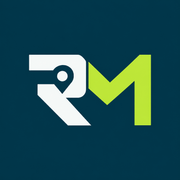
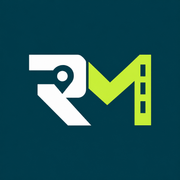
fix: commercial priorities and complete Natal districts with refreshed RM brand [skip ci]

Changed region(s): [[0.7778, 0.3056, 0.8611, 0.6944]]

diff --git a/index.html b/index.html
@@ -1,7 +1,7 @@
 <!doctype html><html lang="pt-BR"><head><meta charset="utf-8"><meta name="viewport" content="width=device-width,initial-scale=1,viewport-fit=cover"><meta name="theme-color" content="#052b36"><title>RotaMapa | Sua rota com inteligência.</title>
 <!-- iphone-pwa:start -->
 <link rel="manifest" href="/iphone.webmanifest">
-<link rel="apple-touch-icon" sizes="180x180" href="/assets/rotamapa/icon-180.png">
+<link rel="apple-touch-icon" sizes="180x180" href="/assets/rotamapa/icon-180.png?v=1.3.1">
 <meta name="apple-mobile-web-app-capable" content="yes">
 <meta name="apple-mobile-web-app-title" content="RotaMapa">
 <meta name="apple-mobile-web-app-status-bar-style" content="black-translucent">
@@ -12,7 +12,7 @@
 <script>
 if(new URLSearchParams(location.search).has('code'))document.documentElement.classList.add('traxio-oauth-pending');
 </script>
-<link rel="stylesheet" href="assets/traxio.css"><link rel="stylesheet" href="assets/approved-layout.css"><link rel="stylesheet" href="assets/kit-layout.css"><link rel="icon" type="image/png" href="assets/rotamapa/icon-32.png">
+<link rel="stylesheet" href="assets/traxio.css"><link rel="stylesheet" href="assets/approved-layout.css"><link rel="stylesheet" href="assets/kit-layout.css"><link rel="icon" type="image/png" href="assets/rotamapa/icon-32.png?v=1.3.1">
 <link rel="stylesheet" href="assets/traxio-routes.css"><link rel="stylesheet" href="assets/traxelo-shell.css"><link rel="stylesheet" href="assets/traxelo-glass.css">
[1 lines of base64/hex data omitted]
 <div id="authExtra" hidden>

diff --git a/assets/traxio-ui.js b/assets/traxio-ui.js
@@ -24,7 +24,7 @@ document.addEventListener('DOMContentLoaded', () => {
     };
     return `<svg class="${className}" viewBox="0 0 24 24" aria-hidden="true">${paths[name] || paths.pin}</svg>`;
   };
-  const brand = className => `<span class="brand-crop traxelo-approved-brand rotamapa-approved-brand ${className || ''}" role="img" aria-label="RotaMapa — Sua rota com inteligência."><img class="rotamapa-brand-image" src="assets/rotamapa/logo.webp" alt="" width="1540" height="306"></span>`;
+  const brand = className => `<span class="brand-crop traxelo-approved-brand rotamapa-approved-brand ${className || ''}" role="img" aria-label="RotaMapa — Sua rota com inteligência."><img class="rotamapa-brand-image" src="assets/rotamapa/logo.webp?v=1.3.1" alt="" width="1540" height="306"></span>`;
   // Display unmodified original pixels from the supplied reference crops.
   const glyph=(source,sourceWidth,sourceHeight,x,y,w,h,className='')=>`<span class="kit-glyph ${className}" aria-hidden="true" style="aspect-ratio:${w}/${h}"><img src="assets/visual-kit/assets/${source}" alt="" width="${sourceWidth}" height="${sourceHeight}" style="width:${100*sourceWidth/w}%;height:${100*sourceHeight/h}%;left:${-100*x/w}%;top:${-100*y/h}%"></span>`;
   // Key only the crop background, then intersect with source alpha. The final
@@ -159,17 +159,21 @@ document.addEventListener('DOMContentLoaded', () => {
   registry.innerHTML = `<div class="registry-controls"><div class="registry-search-row"><div class="search-field">${icon('search')}<input id="registrySearch" type="search" placeholder="Buscar por nome, CNPJ, cidade ou endereço..." aria-label="Buscar clientes"></div><button type="button" id="registryFilterToggle" class="secondary icon-button" aria-label="Mostrar ou ocultar filtros" aria-expanded="true" aria-controls="registryFilters">${icon('filter')}</button></div><div class="registry-filters" id="registryFilters"><select id="registryCity" aria-label="Filtrar por cidade"><option value="">Todas as cidades</option></select><select id="registryNeighborhood" aria-label="Filtrar por bairro"><option value="">Todos os bairros</option></select><select id="registryCategory" aria-label="Filtrar por categoria"><option value="">Todas as categorias</option></select><button type="button" id="registryClear" class="secondary">Limpar filtros</button></div><div class="registry-location-tools"><label for="registryLocation">Localização</label><select id="registryLocation"><option value="">Todos os clientes</option><option value="confirmed">Localização confirmada</option><option value="review">Aguardando confirmação</option><option value="saved">Pontos salvos para revisar</option><option value="missing">Sem ponto salvo</option></select><div id="confirmedPortfolioActions" hidden><button type="button" id="registryPlanConfirmed">Criar rota com estes confirmados</button><button type="button" id="registrySuggestConfirmed" class="secondary">Sugerir rota com estes confirmados</button></div></div><p class="registry-count" id="registryCount" aria-live="polite"></p></div><div class="table-scroll"><table class="client-table"><thead><tr><th><input id="registrySelectAll" type="checkbox" aria-label="Selecionar todos os clientes filtrados"></th><th scope="col">Cliente</th><th scope="col">Cidade</th><th scope="col">Bairro</th><th scope="col">Categoria</th><th scope="col">Prioridade</th></tr></thead><tbody id="registryRows"></tbody></table></div><div class="registry-footer"><span id="registrySelection" aria-live="polite"></span><button type="button" id="registryPlan" class="secondary">Planejar visitas selecionadas →</button></div>`;
   clientSection.append(registry);
   const category = c => regionField(c,['categoria','segmento','ramo','atividade']) || c.category || '—';
+  // Commercial priority is independent of optional business categories in the spreadsheet.
+  const commercialPriority = c => String(Number(c.priority) === 3 ? 3 : Number(c.priority) === 1 ? 1 : 2);
   const filteredClients = () => {
     const q = norm(el('registrySearch').value), city = el('registryCity').value, district = el('registryNeighborhood').value, cat = el('registryCategory').value;
     return clients.filter(c => {
       const r = regionParts(c), location = el('registryLocation').value, ready = TraxioPlanner.location(c).ready;
-      return (!location || (location === 'confirmed' ? ready : location === 'saved' ? !ready && TraxioPlanner.hasSavedPoint(c) : location === 'missing' ? !TraxioPlanner.hasSavedPoint(c) : !ready)) && RotaMapaClientIdentity.matches(c,q,r.city,r.district,category(c)) && (!city || r.city === city) && (!district || r.district === district) && (!cat || category(c) === cat);
+      return (!location || (location === 'confirmed' ? ready : location === 'saved' ? !ready && TraxioPlanner.hasSavedPoint(c) : location === 'missing' ? !TraxioPlanner.hasSavedPoint(c) : !ready)) && RotaMapaClientIdentity.matches(c,q,r.city,r.district,category(c)) && (!city || norm(r.city) === norm(city)) && (!district || norm(r.district) === norm(district)) && (!cat || commercialPriority(c) === cat);
     });
   };
   function updateOptions(id, values, initial) {
     const select = el(id), value = select.value; select.replaceChildren(new Option(initial,''));
-    [...new Set(values.filter(x => x && x !== '—'))].sort((a,b) => a.localeCompare(b,'pt-BR')).forEach(v => select.add(new Option(v,v)));
-    if([...select.options].some(o => o.value === value)) select.value = value;
+    const unique = new Map();
+    for(const v of values) if(v && v !== '—' && !unique.has(norm(v))) unique.set(norm(v),v);
+    [...unique.values()].sort((a,b) => a.localeCompare(b,'pt-BR')).forEach(v => select.add(new Option(v,v)));
+    select.value = [...select.options].find(o => norm(o.value) === norm(value))?.value || '';
   }
   function registrySelection() {
     const filtered = filteredClients(), count = filtered.filter(c => selectedIds.has(c.id)).length;
@@ -182,8 +186,16 @@ document.addEventListener('DOMContentLoaded', () => {
     el('registryPlan').disabled = reviewMode?!reviewCount:!selectedIds.size;
   }
   function renderRegistry(refreshOptions = false) {
-    if(refreshOptions) { updateOptions('registryCity',clients.map(c=>regionParts(c).city),'Cidade'); updateOptions('registryCategory',clients.map(category),'Categoria'); }
-    updateOptions('registryNeighborhood',clients.filter(c=>!el('registryCity').value || regionParts(c).city === el('registryCity').value).map(c=>regionParts(c).district),'Bairro');
+    if(refreshOptions) {
+      updateOptions('registryCity',clients.map(c=>regionParts(c).city),'Cidade');
+      const select=el('registryCategory'), value=select.value;
+      select.replaceChildren(new Option('Categoria',''),new Option('Alta','3'),new Option('Média','2'),new Option('Baixa','1'));
+      select.value=value;
+    }
+    const city=norm(el('registryCity').value);
+    const officialDistricts=['natal','natalrn'].includes(city) ? Object.values(window.RotaMapaBuyerModel?.natal || {}).flat() : [];
+    const importedDistricts=clients.filter(c=>!city || norm(regionParts(c).city)===city).map(c=>regionParts(c).district);
+    updateOptions('registryNeighborhood',[...officialDistricts,...importedDistricts],'Bairro');
     const filtered = filteredClients(), root = el('registryRows'); root.replaceChildren();
     const confirmed = clients.filter(c=>TraxioPlanner.location(c).ready).length;
     const saved=clients.filter(c=>!TraxioPlanner.location(c).ready&&TraxioPlanner.hasSavedPoint(c)).length;

diff --git a/tests/registry-filters.spec.js b/tests/registry-filters.spec.js
@@ -1,0 +1,41 @@
+import {test,expect} from 'playwright/test';
+import {prepare,ready} from './fixtures/browser.js';
+const records=[
+ {id:'a',name:'Natal Alta',city:'NATAL',neighborhood:'LAGOA NOVA',priority:3,lat:-5.81,lon:-35.21,locationVerification:'manual_reviewed',importFields:[{label:'Categoria',value:'Farmácia'}]},
+ {id:'b',name:'Natal Média',city:'Natal',neighborhood:'Lagoa Nova',priority:'2',lat:null,lon:null},
+ {id:'c',name:'Natal Baixa',city:'NATAL',neighborhood:'PAJUCARA',priority:'1',lat:null,lon:null},
+ {id:'d',name:'Natal Conjunto',city:'NATAL',neighborhood:'CONJUNTO SANTAREM',lat:null,lon:null},
+ {id:'e',name:'Parnamirim Alta',city:'PARNAMIRIM',neighborhood:'CENTRO',priority:3,lat:null,lon:null}
+];
+async function setup(page){await prepare(page,{records,lockAuthFixture:true});if(process.env.TRAXELO_PWA_BASE)await page.route(process.env.TRAXELO_PWA_BASE+'/**',r=>r.continue());await ready(page);await page.locator('[data-tab=clientes]').click();}
+const names=page=>page.locator('#registryRows .client-link');
+test('commercial categories always expose Alta, Média and Baixa and combine with city, district and location',async({page})=>{
+ await setup(page);const before=await page.evaluate(()=>localStorage.getItem('projeto_rota_mapa_v1'));
+ await page.locator('#fieldRegistryExtra>summary').click();
+ await expect(page.locator('#registryCategory option')).toHaveText(['Categoria','Alta','Média','Baixa']);
+ await page.locator('#registryCategory').selectOption({label:'Alta'});await expect(names(page)).toHaveText(['Natal Alta','Parnamirim Alta']);
+ await page.locator('#registryCity').selectOption('NATAL');await expect(names(page)).toHaveText(['Natal Alta']);
+ await page.locator('#registryNeighborhood').selectOption({label:'Lagoa Nova'});await expect(names(page)).toHaveText(['Natal Alta']);
+ await page.locator('#registryCategory').selectOption({label:'Média'});await expect(names(page)).toHaveText(['Natal Média']);
+ await page.locator('#registryLocation').selectOption('confirmed');await expect(names(page)).toHaveCount(0);
+ await page.locator('#registryLocation').selectOption('');await page.locator('#registryClear').click();
+ await page.locator('#registryCategory').selectOption({label:'Baixa'});await expect(names(page)).toHaveText(['Natal Baixa']);
+ await page.locator('#registryClear').click();await expect(names(page)).toHaveCount(5);
+ expect(await page.evaluate(()=>localStorage.getItem('projeto_rota_mapa_v1'))).toBe(before);
+});
+test('Natal lists all 36 official districts plus imported sets and matches case and accents without changing pins or selection',async({page})=>{
+ await setup(page);const before=await page.evaluate(()=>localStorage.getItem('projeto_rota_mapa_v1'));
+ await page.locator('#registryRows input').first().check();
+ await page.locator('#registryCity').selectOption('NATAL');await expect(names(page)).toHaveCount(4);
+ // NATAL/Natal are the same city; official spelling takes precedence over duplicate variants.
+ await expect(page.locator('#registryCity option')).toHaveCount(3);
+ const districts=await page.locator('#registryNeighborhood option').allTextContents();
+ const official=await page.evaluate(()=>Object.values(RotaMapaBuyerModel.natal).flat());
+ expect(official).toHaveLength(36);for(const district of official)expect(districts).toContain(district);
+ expect(districts).toContain('CONJUNTO SANTAREM');expect(districts).toHaveLength(38);
+ await page.locator('#registryNeighborhood').selectOption({label:'Pajuçara'});await expect(names(page)).toHaveText(['Natal Baixa']);
+ await page.locator('#registryNeighborhood').selectOption({label:'Ponta Negra'});await expect(names(page)).toHaveCount(0);await expect(page.locator('#registryRows')).toContainText('Nenhum cliente corresponde');
+ await page.locator('#registryNeighborhood').selectOption({label:'CONJUNTO SANTAREM'});await expect(names(page)).toHaveText(['Natal Conjunto']);
+ await page.locator('#registryCity').selectOption('PARNAMIRIM');await expect(page.locator('#registryNeighborhood')).toHaveValue('');await expect(page.locator('#registryNeighborhood option')).toHaveText(['Bairro','CENTRO']);await expect(names(page)).toHaveText(['Parnamirim Alta']);
+ expect(await page.evaluate(()=>[...selectedIds])).toEqual(['a']);expect(await page.evaluate(()=>localStorage.getItem('projeto_rota_mapa_v1'))).toBe(before);
+});

diff --git a/playwright.registry.config.js b/playwright.registry.config.js
@@ -1,0 +1,3 @@
+import {defineConfig} from 'playwright/test';
+import base from './playwright.iphone.config.js';
+export default defineConfig({...base,testMatch:'registry-filters.spec.js',outputDir:'test-results-registry-filters',reporter:'list',projects:base.projects.filter(p=>['iphone-safari','android-browser','desktop'].includes(p.name))});

diff --git a/scripts/verify-brand-registry-apk.py b/scripts/verify-brand-registry-apk.py
@@ -1,0 +1,43 @@
+"""Verify the real APK, full OTA bundle and launcher pixels before publication."""
+from pathlib import Path
+import hashlib,json,zipfile,subprocess,os,re
+sha=lambda b:hashlib.sha256(b).hexdigest()
+m=json.loads(Path('candidate/updateweb/manifest.json').read_text())
+apk=Path('mobile/android/app/build/outputs/apk/debug/app-debug.apk')
+original=Path('downloads/traxio-android-testes.apk')
+previous=Path('downloads/rotamapa-android-testes.apk')
[1 lines of base64/hex data omitted]
+archive=Path('candidate/updateweb')/m['bundle'].removeprefix('/updates/android/')
+assert sha(archive.read_bytes())==m['sha256'] and archive.stat().st_size==m['bytes']
+with zipfile.ZipFile(archive) as z:
+ for name,digest in m['files'].items():assert sha(z.read(name))==digest,name
+with zipfile.ZipFile(apk) as z:
+ for name,digest in m['files'].items():assert sha(z.read('assets/public/'+name))==digest,name
+ html=z.read('assets/public/index.html').decode()
+ assert 'iphone.webmanifest' not in html and 'assets/rotamapa-field-ui.js' in html
+ assert json.loads(z.read('assets/public/assets/rotamapa-release.json'))['version']=='1.3.1'
+ script=z.read('assets/public/assets/traxio-ui.js').decode()
+ assert 'commercialPriority(c) === cat' in script and 'officialDistricts' in script
+ assert 'RotaMapaBuyerModel?.natal' in script
+ assert z.read('assets/public/assets/rotamapa/icon-512.png')==Path('assets/rotamapa/icon-512.png').read_bytes()
+# Check packaged Android resource pixels, not just a similarly named web icon.
+buildtools=sorted(Path(os.environ['ANDROID_HOME']).glob('build-tools/*/aapt'))[-1].parent
+def call(tool,*args):return subprocess.check_output([str(buildtools/tool),*map(str,args)],text=True)
+badging=call('aapt','dump','badging',apk)
+assert "package: name='app.traxio.mobile' versionCode='3' versionName='1.3.1'" in badging
+assert "application-label:'RotaMapa'" in badging
+icon=re.search(r"application-icon-\d+:'([^']+)'",badging)[1]
+with zipfile.ZipFile(apk) as z:Path('candidate/packaged-launcher.png').write_bytes(z.read(icon))
+subprocess.run(['node','--input-type=module','-e',"""
+import{createRequire}from'node:module';import{strict as assert}from'node:assert';
+const sharp=createRequire(new URL('./mobile/package.json',import.meta.url))('sharp');
+const a=await sharp('candidate/packaged-launcher.png').removeAlpha().raw().toBuffer();
+const b=await sharp('assets/rotamapa/icon-512.png').removeAlpha().raw().toBuffer();assert.deepEqual(a,b);
+"""],check=True)
+def certificate(path):
+ output=call('apksigner','verify','--print-certs',path)
+ return re.search(r'Signer #1 certificate SHA-256 digest: (\w+)',output)[1]
+cert=certificate(apk);oldcert=certificate(previous)
+proof={'source':os.environ.get('GITHUB_SHA'),'run':os.environ.get('GITHUB_RUN_ID'),'version':'1.3.1','nativeVersion':3,'packageId':'app.traxio.mobile','apkSha256':sha(apk.read_bytes()),'apkBytes':apk.stat().st_size,'signerSha256':cert,'previousSignerSha256':oldcert,'inPlaceUpgradeFromPreviousInstaller':cert==oldcert,'otaVersion':m['version'],'otaSha256':m['sha256'],'otaBytes':m['bytes'],'bundledFiles':len(m['files']),'launcherResource':icon,'originalInstallerPreserved':True,'backgroundHashesVerified':True}
+Path('candidate/brand-registry-proof.json').write_text(json.dumps(proof,indent=2)+'\n')
+print(json.dumps(proof))
